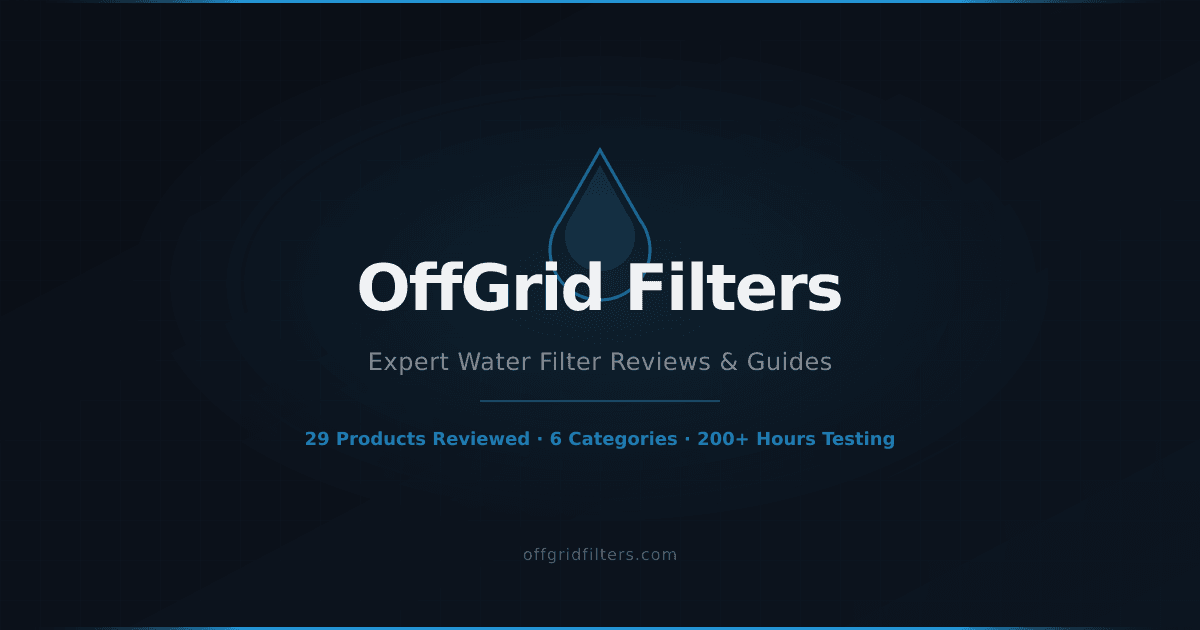
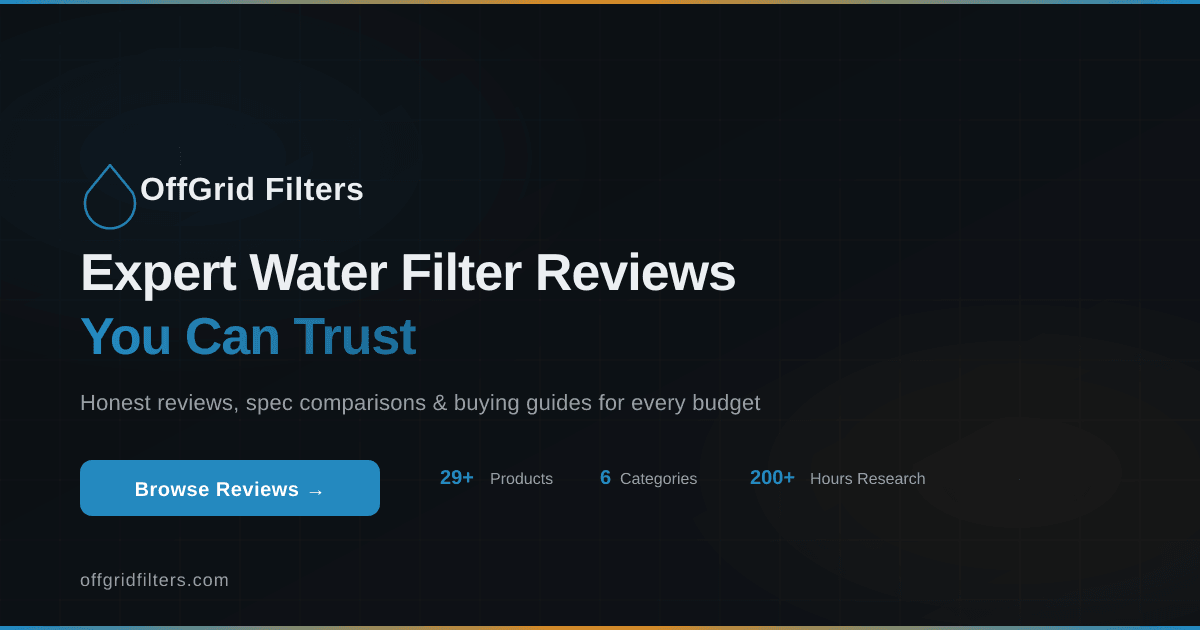
Fix homepage text visibility, security headers, Lighthouse performance
- Restore 'unsafe-inline' in script-src CSP (Astro outputs inline module
  scripts; removing it blocked the scroll-reveal IntersectionObserver,
  leaving all .reveal elements at opacity:0 — text invisible)
- Add Strict-Transport-Security (HSTS) with 2-year max-age + preload
- Add Cross-Origin-Opener-Policy: same-origin
- Make Google Fonts non-render-blocking (preload + media=print onload)
- Improve contrast ratio: bump --muted-foreground from 55% to 62%
- Extend homepage title to 61 chars (was 54, optimal 50-60)
- Extend homepage description to 160 chars (was 143)
- Regenerate OG image with "Browse Reviews" call-to-action button

https://claude.ai/code/session_01L9LZwhoQu1TSJFy4efgd44

diff --git a/src/index.css b/src/index.css
@@ -20,7 +20,7 @@
     --secondary-foreground: 210 10% 88%;
 
     --muted: 210 12% 11%;
-    --muted-foreground: 210 8% 55%;
+    --muted-foreground: 210 8% 62%;
 
     --accent: 32 90% 52%;
     --accent-foreground: 210 25% 5%;
